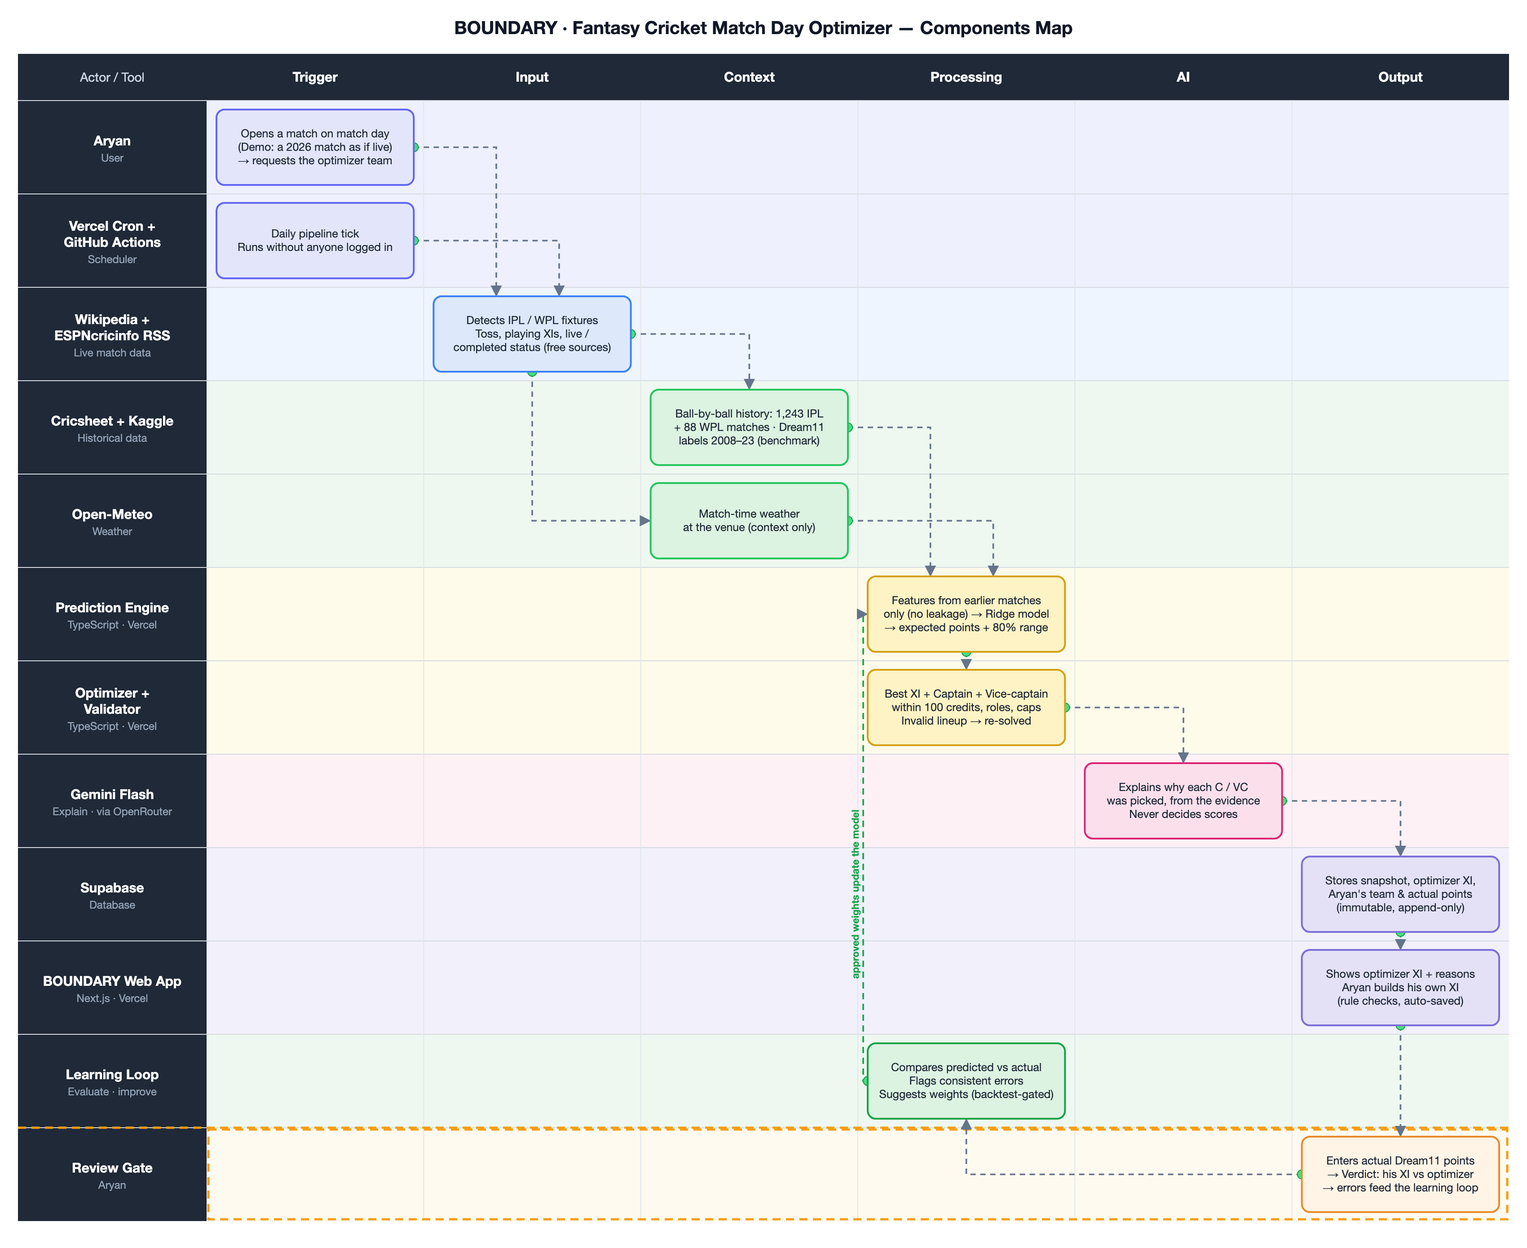
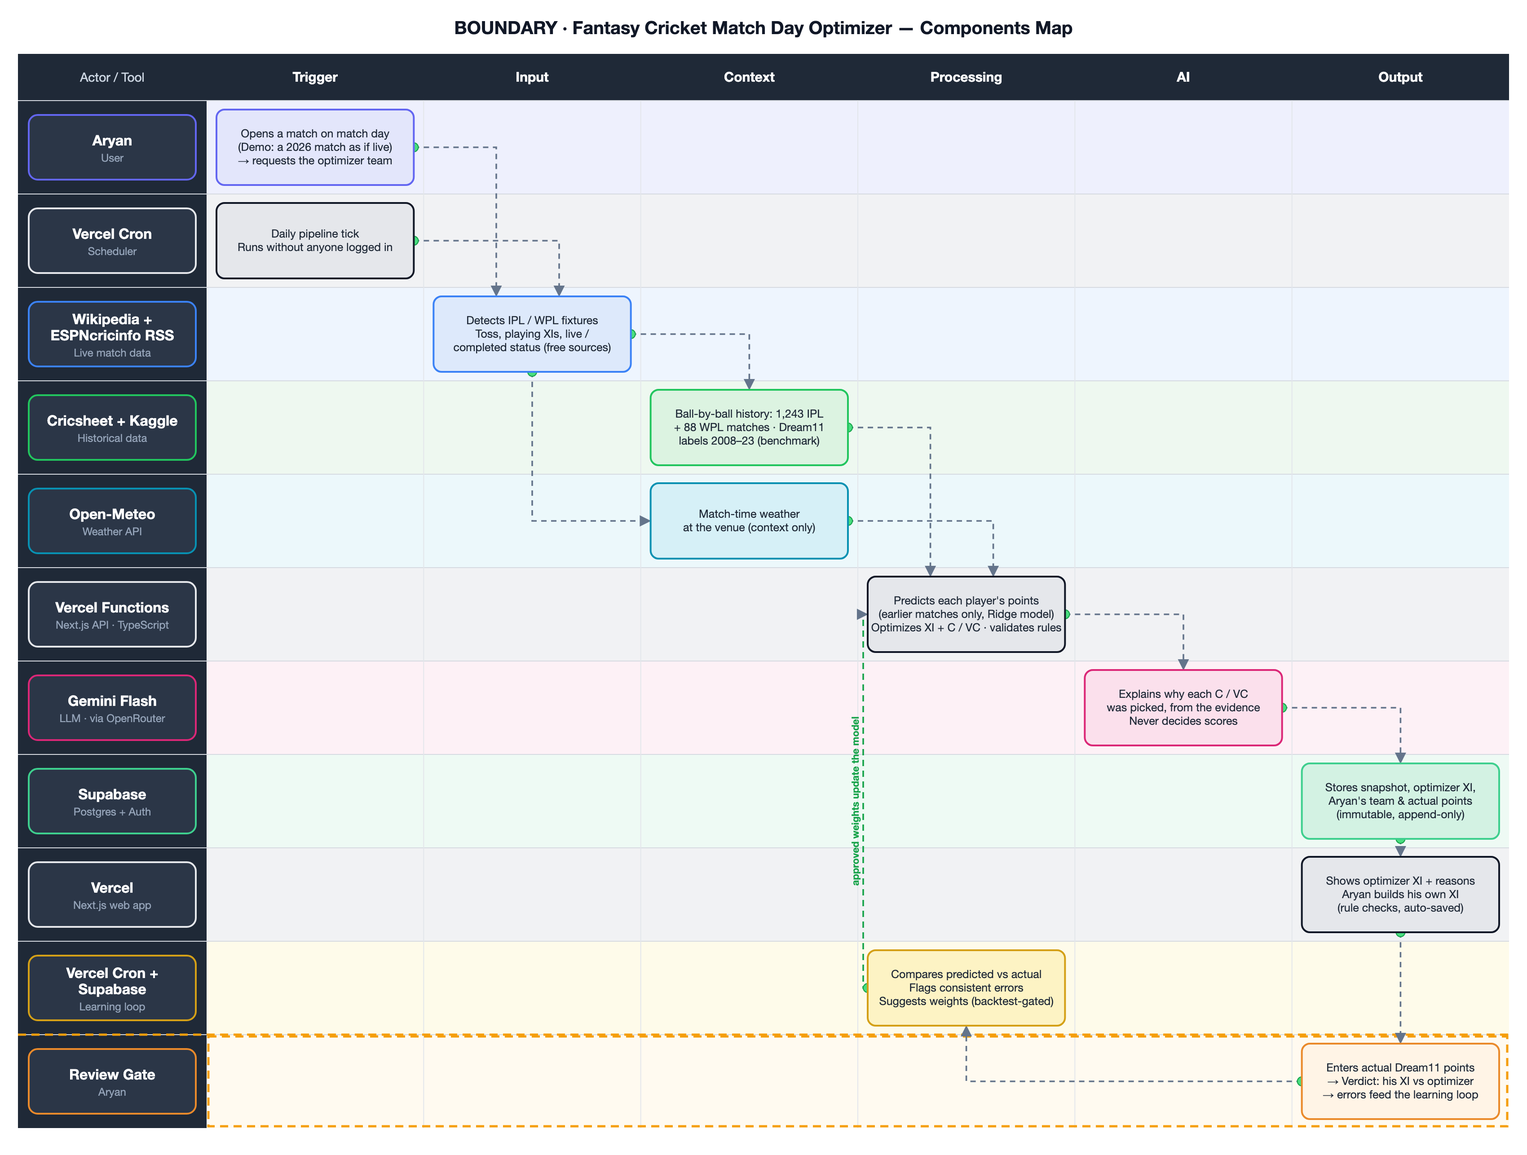
Components map: tools (Vercel, Gemini, Supabase…) highlighted on the left

diff --git a/docs/components-swimlane.html b/docs/components-swimlane.html
@@ -1,16 +1,16 @@
-<!doctype html><html><head><meta charset="utf-8"><title>Components map</title></head><body style="margin:0"><svg xmlns="http://www.w3.org/2000/svg" width="1700" height="1390" viewBox="0 0 1700 1390">
+<!doctype html><html><head><meta charset="utf-8"><title>Components map</title></head><body style="margin:0"><svg xmlns="http://www.w3.org/2000/svg" width="1700" height="1286" viewBox="0 0 1700 1286">
 <defs><marker id="ar" viewBox="0 0 10 10" refX="8" refY="5" markerWidth="7" markerHeight="7" orient="auto-start-reverse"><path d="M0,0 L10,5 L0,10 z" fill="#64748b"/></marker></defs>
 <style>
 text{font-family:Inter,"Helvetica Neue",Arial,sans-serif}
 .title{font-size:20px;font-weight:700;fill:#111827}
 .hd{font-size:15px;font-weight:700;fill:#fff}
 .hd2{font-size:14px;fill:#cbd5e1}
-.tool{font-size:15px;font-weight:700;fill:#fff}
+.tool{font-size:16px;font-weight:700;fill:#fff}
 .role{font-size:12px;fill:#94a3b8}
 .bx{font-size:12.5px;fill:#1f2937}
 .fb{font-size:11px;fill:#16a34a;font-weight:600}
 </style>
-<rect width="1700" height="1390" fill="#ffffff"/>
+<rect width="1700" height="1286" fill="#ffffff"/>
 <text x="850.0" y="38" class="title" text-anchor="middle">BOUNDARY · Fantasy Cricket Match Day Optimizer — Components Map</text>
 <rect x="20" y="60" width="1660" height="52" fill="#1f2937"/>
 <text x="125.0" y="91" class="hd2" text-anchor="middle">Actor / Tool</text>
@@ -22,74 +22,79 @@ text{font-family:Inter,"Helvetica Neue",Arial,sans-serif}
 <text x="1559.1666666666665" y="91" class="hd" text-anchor="middle">Output</text>
 <rect x="20" y="112" width="210" height="104" fill="#1f2937"/>
 <rect x="230" y="112" width="1450" height="104" fill="#eef0fd"/>
+<rect x="32" y="128" width="186" height="72" rx="10" fill="#2b3647" stroke="#6366f1" stroke-width="2"/>
 <line x1="20" y1="112" x2="1680" y2="112" stroke="#d6dae1" stroke-width="1"/>
 <text x="125.0" y="162.0" class="tool" text-anchor="middle">Aryan</text>
 <text x="125.0" y="180.0" class="role" text-anchor="middle">User</text>
 <rect x="20" y="216" width="210" height="104" fill="#1f2937"/>
-<rect x="230" y="216" width="1450" height="104" fill="#eef0fd"/>
+<rect x="230" y="216" width="1450" height="104" fill="#f1f2f4"/>
+<rect x="32" y="232" width="186" height="72" rx="10" fill="#2b3647" stroke="#e5e7eb" stroke-width="2"/>
 <line x1="20" y1="216" x2="1680" y2="216" stroke="#d6dae1" stroke-width="1"/>
-<text x="125.0" y="257.0" class="tool" text-anchor="middle">Vercel Cron +</text>
-<text x="125.0" y="275.0" class="tool" text-anchor="middle">GitHub Actions</text>
-<text x="125.0" y="293.0" class="role" text-anchor="middle">Scheduler</text>
+<text x="125.0" y="266.0" class="tool" text-anchor="middle">Vercel Cron</text>
+<text x="125.0" y="284.0" class="role" text-anchor="middle">Scheduler</text>
 <rect x="20" y="320" width="210" height="104" fill="#1f2937"/>
 <rect x="230" y="320" width="1450" height="104" fill="#eef5fe"/>
+<rect x="32" y="336" width="186" height="72" rx="10" fill="#2b3647" stroke="#3b82f6" stroke-width="2"/>
 <line x1="20" y1="320" x2="1680" y2="320" stroke="#d6dae1" stroke-width="1"/>
 <text x="125.0" y="361.0" class="tool" text-anchor="middle">Wikipedia +</text>
 <text x="125.0" y="379.0" class="tool" text-anchor="middle">ESPNcricinfo RSS</text>
 <text x="125.0" y="397.0" class="role" text-anchor="middle">Live match data</text>
 <rect x="20" y="424" width="210" height="104" fill="#1f2937"/>
 <rect x="230" y="424" width="1450" height="104" fill="#eef8f0"/>
+<rect x="32" y="440" width="186" height="72" rx="10" fill="#2b3647" stroke="#22c55e" stroke-width="2"/>
 <line x1="20" y1="424" x2="1680" y2="424" stroke="#d6dae1" stroke-width="1"/>
 <text x="125.0" y="474.0" class="tool" text-anchor="middle">Cricsheet + Kaggle</text>
 <text x="125.0" y="492.0" class="role" text-anchor="middle">Historical data</text>
 <rect x="20" y="528" width="210" height="104" fill="#1f2937"/>
-<rect x="230" y="528" width="1450" height="104" fill="#eef8f0"/>
+<rect x="230" y="528" width="1450" height="104" fill="#ecf8fb"/>
+<rect x="32" y="544" width="186" height="72" rx="10" fill="#2b3647" stroke="#0891b2" stroke-width="2"/>
 <line x1="20" y1="528" x2="1680" y2="528" stroke="#d6dae1" stroke-width="1"/>
 <text x="125.0" y="578.0" class="tool" text-anchor="middle">Open-Meteo</text>
-<text x="125.0" y="596.0" class="role" text-anchor="middle">Weather</text>
+<text x="125.0" y="596.0" class="role" text-anchor="middle">Weather API</text>
 <rect x="20" y="632" width="210" height="104" fill="#1f2937"/>
-<rect x="230" y="632" width="1450" height="104" fill="#fefbea"/>
+<rect x="230" y="632" width="1450" height="104" fill="#f1f2f4"/>
+<rect x="32" y="648" width="186" height="72" rx="10" fill="#2b3647" stroke="#e5e7eb" stroke-width="2"/>
 <line x1="20" y1="632" x2="1680" y2="632" stroke="#d6dae1" stroke-width="1"/>
-<text x="125.0" y="682.0" class="tool" text-anchor="middle">Prediction Engine</text>
-<text x="125.0" y="700.0" class="role" text-anchor="middle">TypeScript · Vercel</text>
+<text x="125.0" y="682.0" class="tool" text-anchor="middle">Vercel Functions</text>
+<text x="125.0" y="700.0" class="role" text-anchor="middle">Next.js API · TypeScript</text>
 <rect x="20" y="736" width="210" height="104" fill="#1f2937"/>
-<rect x="230" y="736" width="1450" height="104" fill="#fefbea"/>
+<rect x="230" y="736" width="1450" height="104" fill="#fdf1f6"/>
+<rect x="32" y="752" width="186" height="72" rx="10" fill="#2b3647" stroke="#db2777" stroke-width="2"/>
 <line x1="20" y1="736" x2="1680" y2="736" stroke="#d6dae1" stroke-width="1"/>
-<text x="125.0" y="777.0" class="tool" text-anchor="middle">Optimizer +</text>
-<text x="125.0" y="795.0" class="tool" text-anchor="middle">Validator</text>
-<text x="125.0" y="813.0" class="role" text-anchor="middle">TypeScript · Vercel</text>
+<text x="125.0" y="786.0" class="tool" text-anchor="middle">Gemini Flash</text>
+<text x="125.0" y="804.0" class="role" text-anchor="middle">LLM · via OpenRouter</text>
 <rect x="20" y="840" width="210" height="104" fill="#1f2937"/>
-<rect x="230" y="840" width="1450" height="104" fill="#fdf1f6"/>
+<rect x="230" y="840" width="1450" height="104" fill="#eefaf4"/>
+<rect x="32" y="856" width="186" height="72" rx="10" fill="#2b3647" stroke="#3ecf8e" stroke-width="2"/>
 <line x1="20" y1="840" x2="1680" y2="840" stroke="#d6dae1" stroke-width="1"/>
-<text x="125.0" y="890.0" class="tool" text-anchor="middle">Gemini Flash</text>
-<text x="125.0" y="908.0" class="role" text-anchor="middle">Explain · via OpenRouter</text>
+<text x="125.0" y="890.0" class="tool" text-anchor="middle">Supabase</text>
+<text x="125.0" y="908.0" class="role" text-anchor="middle">Postgres + Auth</text>
 <rect x="20" y="944" width="210" height="104" fill="#1f2937"/>
-<rect x="230" y="944" width="1450" height="104" fill="#f1f0fb"/>
+<rect x="230" y="944" width="1450" height="104" fill="#f1f2f4"/>
+<rect x="32" y="960" width="186" height="72" rx="10" fill="#2b3647" stroke="#e5e7eb" stroke-width="2"/>
 <line x1="20" y1="944" x2="1680" y2="944" stroke="#d6dae1" stroke-width="1"/>
-<text x="125.0" y="994.0" class="tool" text-anchor="middle">Supabase</text>
-<text x="125.0" y="1012.0" class="role" text-anchor="middle">Database</text>
+<text x="125.0" y="994.0" class="tool" text-anchor="middle">Vercel</text>
+<text x="125.0" y="1012.0" class="role" text-anchor="middle">Next.js web app</text>
 <rect x="20" y="1048" width="210" height="104" fill="#1f2937"/>
-<rect x="230" y="1048" width="1450" height="104" fill="#f1f0fb"/>
+<rect x="230" y="1048" width="1450" height="104" fill="#fefbea"/>
+<rect x="32" y="1064" width="186" height="72" rx="10" fill="#2b3647" stroke="#d4a017" stroke-width="2"/>
 <line x1="20" y1="1048" x2="1680" y2="1048" stroke="#d6dae1" stroke-width="1"/>
-<text x="125.0" y="1098.0" class="tool" text-anchor="middle">BOUNDARY Web App</text>
-<text x="125.0" y="1116.0" class="role" text-anchor="middle">Next.js · Vercel</text>
+<text x="125.0" y="1089.0" class="tool" text-anchor="middle">Vercel Cron +</text>
+<text x="125.0" y="1107.0" class="tool" text-anchor="middle">Supabase</text>
+<text x="125.0" y="1125.0" class="role" text-anchor="middle">Learning loop</text>
 <rect x="20" y="1152" width="210" height="104" fill="#1f2937"/>
-<rect x="230" y="1152" width="1450" height="104" fill="#eef8f0"/>
+<rect x="230" y="1152" width="1450" height="104" fill="#fffaf0"/>
+<rect x="32" y="1168" width="186" height="72" rx="10" fill="#2b3647" stroke="#ea8a2b" stroke-width="2"/>
 <line x1="20" y1="1152" x2="1680" y2="1152" stroke="#d6dae1" stroke-width="1"/>
-<text x="125.0" y="1202.0" class="tool" text-anchor="middle">Learning Loop</text>
-<text x="125.0" y="1220.0" class="role" text-anchor="middle">Evaluate · improve</text>
-<rect x="20" y="1256" width="210" height="104" fill="#1f2937"/>
-<rect x="230" y="1256" width="1450" height="104" fill="#fffaf0"/>
-<line x1="20" y1="1256" x2="1680" y2="1256" stroke="#d6dae1" stroke-width="1"/>
-<text x="125.0" y="1306.0" class="tool" text-anchor="middle">Review Gate</text>
-<text x="125.0" y="1324.0" class="role" text-anchor="middle">Aryan</text>
-<line x1="471.66666666666663" y1="112" x2="471.66666666666663" y2="1360" stroke="#e3e6eb" stroke-width="1"/>
-<line x1="713.3333333333333" y1="112" x2="713.3333333333333" y2="1360" stroke="#e3e6eb" stroke-width="1"/>
-<line x1="955.0" y1="112" x2="955.0" y2="1360" stroke="#e3e6eb" stroke-width="1"/>
-<line x1="1196.6666666666665" y1="112" x2="1196.6666666666665" y2="1360" stroke="#e3e6eb" stroke-width="1"/>
-<line x1="1438.3333333333333" y1="112" x2="1438.3333333333333" y2="1360" stroke="#e3e6eb" stroke-width="1"/>
-<rect x="232" y="1258" width="1446" height="100" fill="none" stroke="#f59e0b" stroke-width="2.5" stroke-dasharray="9 6"/>
-<line x1="20" y1="1256" x2="1680" y2="1256" stroke="#f59e0b" stroke-width="2.5" stroke-dasharray="9 6"/>
+<text x="125.0" y="1202.0" class="tool" text-anchor="middle">Review Gate</text>
+<text x="125.0" y="1220.0" class="role" text-anchor="middle">Aryan</text>
+<line x1="471.66666666666663" y1="112" x2="471.66666666666663" y2="1256" stroke="#e3e6eb" stroke-width="1"/>
+<line x1="713.3333333333333" y1="112" x2="713.3333333333333" y2="1256" stroke="#e3e6eb" stroke-width="1"/>
+<line x1="955.0" y1="112" x2="955.0" y2="1256" stroke="#e3e6eb" stroke-width="1"/>
+<line x1="1196.6666666666665" y1="112" x2="1196.6666666666665" y2="1256" stroke="#e3e6eb" stroke-width="1"/>
+<line x1="1438.3333333333333" y1="112" x2="1438.3333333333333" y2="1256" stroke="#e3e6eb" stroke-width="1"/>
+<rect x="232" y="1154" width="1446" height="100" fill="none" stroke="#f59e0b" stroke-width="2.5" stroke-dasharray="9 6"/>
+<line x1="20" y1="1152" x2="1680" y2="1152" stroke="#f59e0b" stroke-width="2.5" stroke-dasharray="9 6"/>
 <path d="M460.7 164.0 L552.5 164.0 L552.5 328.0" fill="none" stroke="#64748b" stroke-width="1.8" stroke-dasharray="6 5" marker-end="url(#ar)"/>
 <circle cx="460.7" cy="164.0" r="5" fill="#4ade80" stroke="#16a34a" stroke-width="1"/>
 <path d="M460.7 268.0 L622.5 268.0 L622.5 328.0" fill="none" stroke="#64748b" stroke-width="1.8" stroke-dasharray="6 5" marker-end="url(#ar)"/>
@@ -100,28 +105,26 @@ text{font-family:Inter,"Helvetica Neue",Arial,sans-serif}
 <circle cx="944.0" cy="476.0" r="5" fill="#4ade80" stroke="#16a34a" stroke-width="1"/>
 <path d="M944.0 580.0 L1105.8 580.0 L1105.8 640.0" fill="none" stroke="#64748b" stroke-width="1.8" stroke-dasharray="6 5" marker-end="url(#ar)"/>
 <circle cx="944.0" cy="580.0" r="5" fill="#4ade80" stroke="#16a34a" stroke-width="1"/>
-<path d="M1075.8 726.0 L1075.8 744.0" fill="none" stroke="#64748b" stroke-width="1.8" stroke-dasharray="6 5" marker-end="url(#ar)"/>
-<circle cx="1075.8" cy="726.0" r="5" fill="#4ade80" stroke="#16a34a" stroke-width="1"/>
-<path d="M1185.7 788.0 L1317.5 788.0 L1317.5 848.0" fill="none" stroke="#64748b" stroke-width="1.8" stroke-dasharray="6 5" marker-end="url(#ar)"/>
-<circle cx="1185.7" cy="788.0" r="5" fill="#4ade80" stroke="#16a34a" stroke-width="1"/>
-<path d="M1427.3 892.0 L1559.2 892.0 L1559.2 952.0" fill="none" stroke="#64748b" stroke-width="1.8" stroke-dasharray="6 5" marker-end="url(#ar)"/>
-<circle cx="1427.3" cy="892.0" r="5" fill="#4ade80" stroke="#16a34a" stroke-width="1"/>
-<path d="M1559.2 1038.0 L1559.2 1056.0" fill="none" stroke="#64748b" stroke-width="1.8" stroke-dasharray="6 5" marker-end="url(#ar)"/>
+<path d="M1185.7 684.0 L1317.5 684.0 L1317.5 744.0" fill="none" stroke="#64748b" stroke-width="1.8" stroke-dasharray="6 5" marker-end="url(#ar)"/>
+<circle cx="1185.7" cy="684.0" r="5" fill="#4ade80" stroke="#16a34a" stroke-width="1"/>
+<path d="M1427.3 788.0 L1559.2 788.0 L1559.2 848.0" fill="none" stroke="#64748b" stroke-width="1.8" stroke-dasharray="6 5" marker-end="url(#ar)"/>
+<circle cx="1427.3" cy="788.0" r="5" fill="#4ade80" stroke="#16a34a" stroke-width="1"/>
+<path d="M1559.2 934.0 L1559.2 952.0" fill="none" stroke="#64748b" stroke-width="1.8" stroke-dasharray="6 5" marker-end="url(#ar)"/>
+<circle cx="1559.2" cy="934.0" r="5" fill="#4ade80" stroke="#16a34a" stroke-width="1"/>
+<path d="M1559.2 1038.0 L1559.2 1160.0" fill="none" stroke="#64748b" stroke-width="1.8" stroke-dasharray="6 5" marker-end="url(#ar)"/>
 <circle cx="1559.2" cy="1038.0" r="5" fill="#4ade80" stroke="#16a34a" stroke-width="1"/>
-<path d="M1559.2 1142.0 L1559.2 1264.0" fill="none" stroke="#64748b" stroke-width="1.8" stroke-dasharray="6 5" marker-end="url(#ar)"/>
-<circle cx="1559.2" cy="1142.0" r="5" fill="#4ade80" stroke="#16a34a" stroke-width="1"/>
-<path d="M1449.3 1308.0 L1075.8 1308.0 L1075.8 1248.0" fill="none" stroke="#64748b" stroke-width="1.8" stroke-dasharray="6 5" marker-end="url(#ar)"/>
-<circle cx="1449.3" cy="1308.0" r="5" fill="#4ade80" stroke="#16a34a" stroke-width="1"/>
+<path d="M1449.3 1204.0 L1075.8 1204.0 L1075.8 1144.0" fill="none" stroke="#64748b" stroke-width="1.8" stroke-dasharray="6 5" marker-end="url(#ar)"/>
+<circle cx="1449.3" cy="1204.0" r="5" fill="#4ade80" stroke="#16a34a" stroke-width="1"/>
 <path d="M592.5 414.0 L592.5 580.0 L722.3 580.0" fill="none" stroke="#64748b" stroke-width="1.8" stroke-dasharray="6 5" marker-end="url(#ar)"/>
 <circle cx="592.5" cy="414.0" r="5" fill="#4ade80" stroke="#16a34a" stroke-width="1"/>
-<path d="M966.0 1204.0 L961.0 1204.0 L961.0 684.0 L964.0 684.0" fill="none" stroke="#16a34a" stroke-width="1.8" stroke-dasharray="7 5" marker-end="url(#ar)"/>
-<circle cx="966.0" cy="1204.0" r="5" fill="#4ade80" stroke="#16a34a" stroke-width="1"/>
-<text x="956.0" y="996.0" class="fb" transform="rotate(-90 956.0 996.0)" text-anchor="middle">approved weights update the model</text>
+<path d="M966.0 1100.0 L961.0 1100.0 L961.0 684.0 L964.0 684.0" fill="none" stroke="#16a34a" stroke-width="1.8" stroke-dasharray="7 5" marker-end="url(#ar)"/>
+<circle cx="966.0" cy="1100.0" r="5" fill="#4ade80" stroke="#16a34a" stroke-width="1"/>
+<text x="956.0" y="892.0" class="fb" transform="rotate(-90 956.0 892.0)" text-anchor="middle">approved weights update the model</text>
 <rect x="241.0" y="122.0" width="219.66666666666666" height="84" rx="9" fill="#e3e6fb" stroke="#6366f1" stroke-width="2"/>
 <text x="350.8333333333333" y="153.0" class="bx" text-anchor="middle">Opens a match on match day</text>
 <text x="350.8333333333333" y="168.0" class="bx" text-anchor="middle">(Demo: a 2026 match as if live)</text>
 <text x="350.8333333333333" y="183.0" class="bx" text-anchor="middle">→ requests the optimizer team</text>
-<rect x="241.0" y="226.0" width="219.66666666666666" height="84" rx="9" fill="#e3e6fb" stroke="#6366f1" stroke-width="2"/>
+<rect x="241.0" y="226.0" width="219.66666666666666" height="84" rx="9" fill="#e5e7eb" stroke="#111827" stroke-width="2"/>
 <text x="350.8333333333333" y="264.5" class="bx" text-anchor="middle">Daily pipeline tick</text>
 <text x="350.8333333333333" y="279.5" class="bx" text-anchor="middle">Runs without anyone logged in</text>
 <rect x="482.6666666666667" y="330.0" width="219.66666666666666" height="84" rx="9" fill="#dde9fb" stroke="#3b82f6" stroke-width="2"/>
@@ -132,35 +135,31 @@ text{font-family:Inter,"Helvetica Neue",Arial,sans-serif}
 <text x="834.1666666666666" y="465.0" class="bx" text-anchor="middle">Ball-by-ball history: 1,243 IPL</text>
 <text x="834.1666666666666" y="480.0" class="bx" text-anchor="middle">+ 88 WPL matches · Dream11</text>
 <text x="834.1666666666666" y="495.0" class="bx" text-anchor="middle">labels 2008–23 (benchmark)</text>
-<rect x="724.3333333333333" y="538.0" width="219.66666666666666" height="84" rx="9" fill="#dcf3e1" stroke="#22c55e" stroke-width="2"/>
+<rect x="724.3333333333333" y="538.0" width="219.66666666666666" height="84" rx="9" fill="#d6f0f7" stroke="#0891b2" stroke-width="2"/>
 <text x="834.1666666666666" y="576.5" class="bx" text-anchor="middle">Match-time weather</text>
 <text x="834.1666666666666" y="591.5" class="bx" text-anchor="middle">at the venue (context only)</text>
-<rect x="965.9999999999999" y="642.0" width="219.66666666666666" height="84" rx="9" fill="#fdf3c4" stroke="#d4a017" stroke-width="2"/>
-<text x="1075.8333333333333" y="673.0" class="bx" text-anchor="middle">Features from earlier matches</text>
-<text x="1075.8333333333333" y="688.0" class="bx" text-anchor="middle">only (no leakage) → Ridge model</text>
-<text x="1075.8333333333333" y="703.0" class="bx" text-anchor="middle">→ expected points + 80% range</text>
-<rect x="965.9999999999999" y="746.0" width="219.66666666666666" height="84" rx="9" fill="#fdf3c4" stroke="#d4a017" stroke-width="2"/>
-<text x="1075.8333333333333" y="777.0" class="bx" text-anchor="middle">Best XI + Captain + Vice-captain</text>
-<text x="1075.8333333333333" y="792.0" class="bx" text-anchor="middle">within 100 credits, roles, caps</text>
-<text x="1075.8333333333333" y="807.0" class="bx" text-anchor="middle">Invalid lineup → re-solved</text>
-<rect x="1207.6666666666665" y="850.0" width="219.66666666666666" height="84" rx="9" fill="#fbe0ec" stroke="#db2777" stroke-width="2"/>
-<text x="1317.4999999999998" y="881.0" class="bx" text-anchor="middle">Explains why each C / VC</text>
-<text x="1317.4999999999998" y="896.0" class="bx" text-anchor="middle">was picked, from the evidence</text>
-<text x="1317.4999999999998" y="911.0" class="bx" text-anchor="middle">Never decides scores</text>
-<rect x="1449.3333333333333" y="954.0" width="219.66666666666666" height="84" rx="9" fill="#e4e1f7" stroke="#7c6fd6" stroke-width="2"/>
-<text x="1559.1666666666665" y="985.0" class="bx" text-anchor="middle">Stores snapshot, optimizer XI,</text>
-<text x="1559.1666666666665" y="1000.0" class="bx" text-anchor="middle">Aryan&#x27;s team &amp; actual points</text>
-<text x="1559.1666666666665" y="1015.0" class="bx" text-anchor="middle">(immutable, append-only)</text>
-<rect x="1449.3333333333333" y="1058.0" width="219.66666666666666" height="84" rx="9" fill="#e4e1f7" stroke="#7c6fd6" stroke-width="2"/>
-<text x="1559.1666666666665" y="1089.0" class="bx" text-anchor="middle">Shows optimizer XI + reasons</text>
-<text x="1559.1666666666665" y="1104.0" class="bx" text-anchor="middle">Aryan builds his own XI</text>
-<text x="1559.1666666666665" y="1119.0" class="bx" text-anchor="middle">(rule checks, auto-saved)</text>
-<rect x="965.9999999999999" y="1162.0" width="219.66666666666666" height="84" rx="9" fill="#dcf3e1" stroke="#16a34a" stroke-width="2"/>
-<text x="1075.8333333333333" y="1193.0" class="bx" text-anchor="middle">Compares predicted vs actual</text>
-<text x="1075.8333333333333" y="1208.0" class="bx" text-anchor="middle">Flags consistent errors</text>
-<text x="1075.8333333333333" y="1223.0" class="bx" text-anchor="middle">Suggests weights (backtest-gated)</text>
-<rect x="1449.3333333333333" y="1266.0" width="219.66666666666666" height="84" rx="9" fill="#fff4e6" stroke="#ea8a2b" stroke-width="2"/>
-<text x="1559.1666666666665" y="1297.0" class="bx" text-anchor="middle">Enters actual Dream11 points</text>
-<text x="1559.1666666666665" y="1312.0" class="bx" text-anchor="middle">→ Verdict: his XI vs optimizer</text>
-<text x="1559.1666666666665" y="1327.0" class="bx" text-anchor="middle">→ errors feed the learning loop</text>
+<rect x="965.9999999999999" y="642.0" width="219.66666666666666" height="84" rx="9" fill="#e5e7eb" stroke="#111827" stroke-width="2"/>
+<text x="1075.8333333333333" y="673.0" class="bx" text-anchor="middle">Predicts each player&#x27;s points</text>
+<text x="1075.8333333333333" y="688.0" class="bx" text-anchor="middle">(earlier matches only, Ridge model)</text>
+<text x="1075.8333333333333" y="703.0" class="bx" text-anchor="middle">Optimizes XI + C / VC · validates rules</text>
+<rect x="1207.6666666666665" y="746.0" width="219.66666666666666" height="84" rx="9" fill="#fbe0ec" stroke="#db2777" stroke-width="2"/>
+<text x="1317.4999999999998" y="777.0" class="bx" text-anchor="middle">Explains why each C / VC</text>
+<text x="1317.4999999999998" y="792.0" class="bx" text-anchor="middle">was picked, from the evidence</text>
+<text x="1317.4999999999998" y="807.0" class="bx" text-anchor="middle">Never decides scores</text>
+<rect x="1449.3333333333333" y="850.0" width="219.66666666666666" height="84" rx="9" fill="#d3f2e3" stroke="#3ecf8e" stroke-width="2"/>
+<text x="1559.1666666666665" y="881.0" class="bx" text-anchor="middle">Stores snapshot, optimizer XI,</text>
+<text x="1559.1666666666665" y="896.0" class="bx" text-anchor="middle">Aryan&#x27;s team &amp; actual points</text>
+<text x="1559.1666666666665" y="911.0" class="bx" text-anchor="middle">(immutable, append-only)</text>
+<rect x="1449.3333333333333" y="954.0" width="219.66666666666666" height="84" rx="9" fill="#e5e7eb" stroke="#111827" stroke-width="2"/>
+<text x="1559.1666666666665" y="985.0" class="bx" text-anchor="middle">Shows optimizer XI + reasons</text>
+<text x="1559.1666666666665" y="1000.0" class="bx" text-anchor="middle">Aryan builds his own XI</text>
+<text x="1559.1666666666665" y="1015.0" class="bx" text-anchor="middle">(rule checks, auto-saved)</text>
+<rect x="965.9999999999999" y="1058.0" width="219.66666666666666" height="84" rx="9" fill="#fdf3c4" stroke="#d4a017" stroke-width="2"/>
+<text x="1075.8333333333333" y="1089.0" class="bx" text-anchor="middle">Compares predicted vs actual</text>
+<text x="1075.8333333333333" y="1104.0" class="bx" text-anchor="middle">Flags consistent errors</text>
+<text x="1075.8333333333333" y="1119.0" class="bx" text-anchor="middle">Suggests weights (backtest-gated)</text>
+<rect x="1449.3333333333333" y="1162.0" width="219.66666666666666" height="84" rx="9" fill="#fff4e6" stroke="#ea8a2b" stroke-width="2"/>
+<text x="1559.1666666666665" y="1193.0" class="bx" text-anchor="middle">Enters actual Dream11 points</text>
+<text x="1559.1666666666665" y="1208.0" class="bx" text-anchor="middle">→ Verdict: his XI vs optimizer</text>
+<text x="1559.1666666666665" y="1223.0" class="bx" text-anchor="middle">→ errors feed the learning loop</text>
 </svg></body></html>
